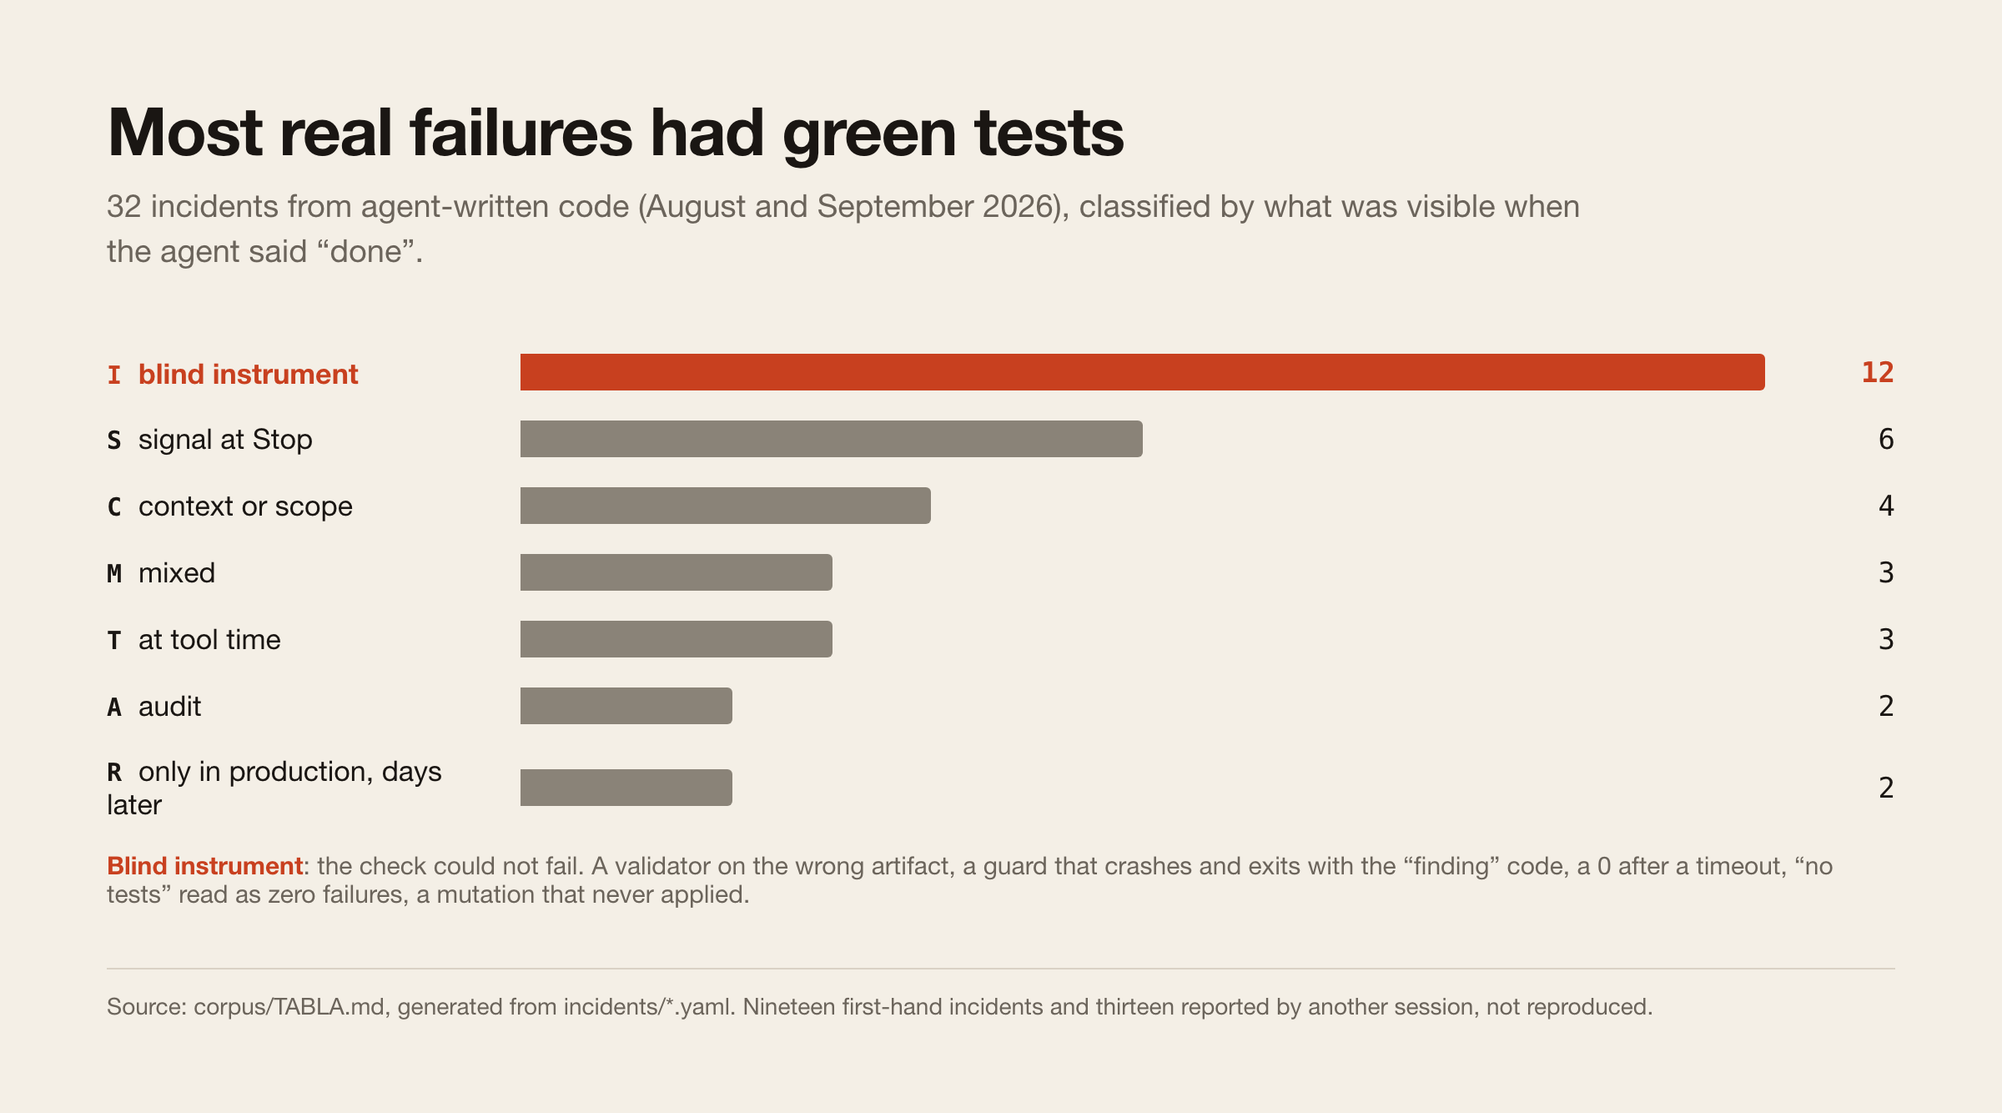
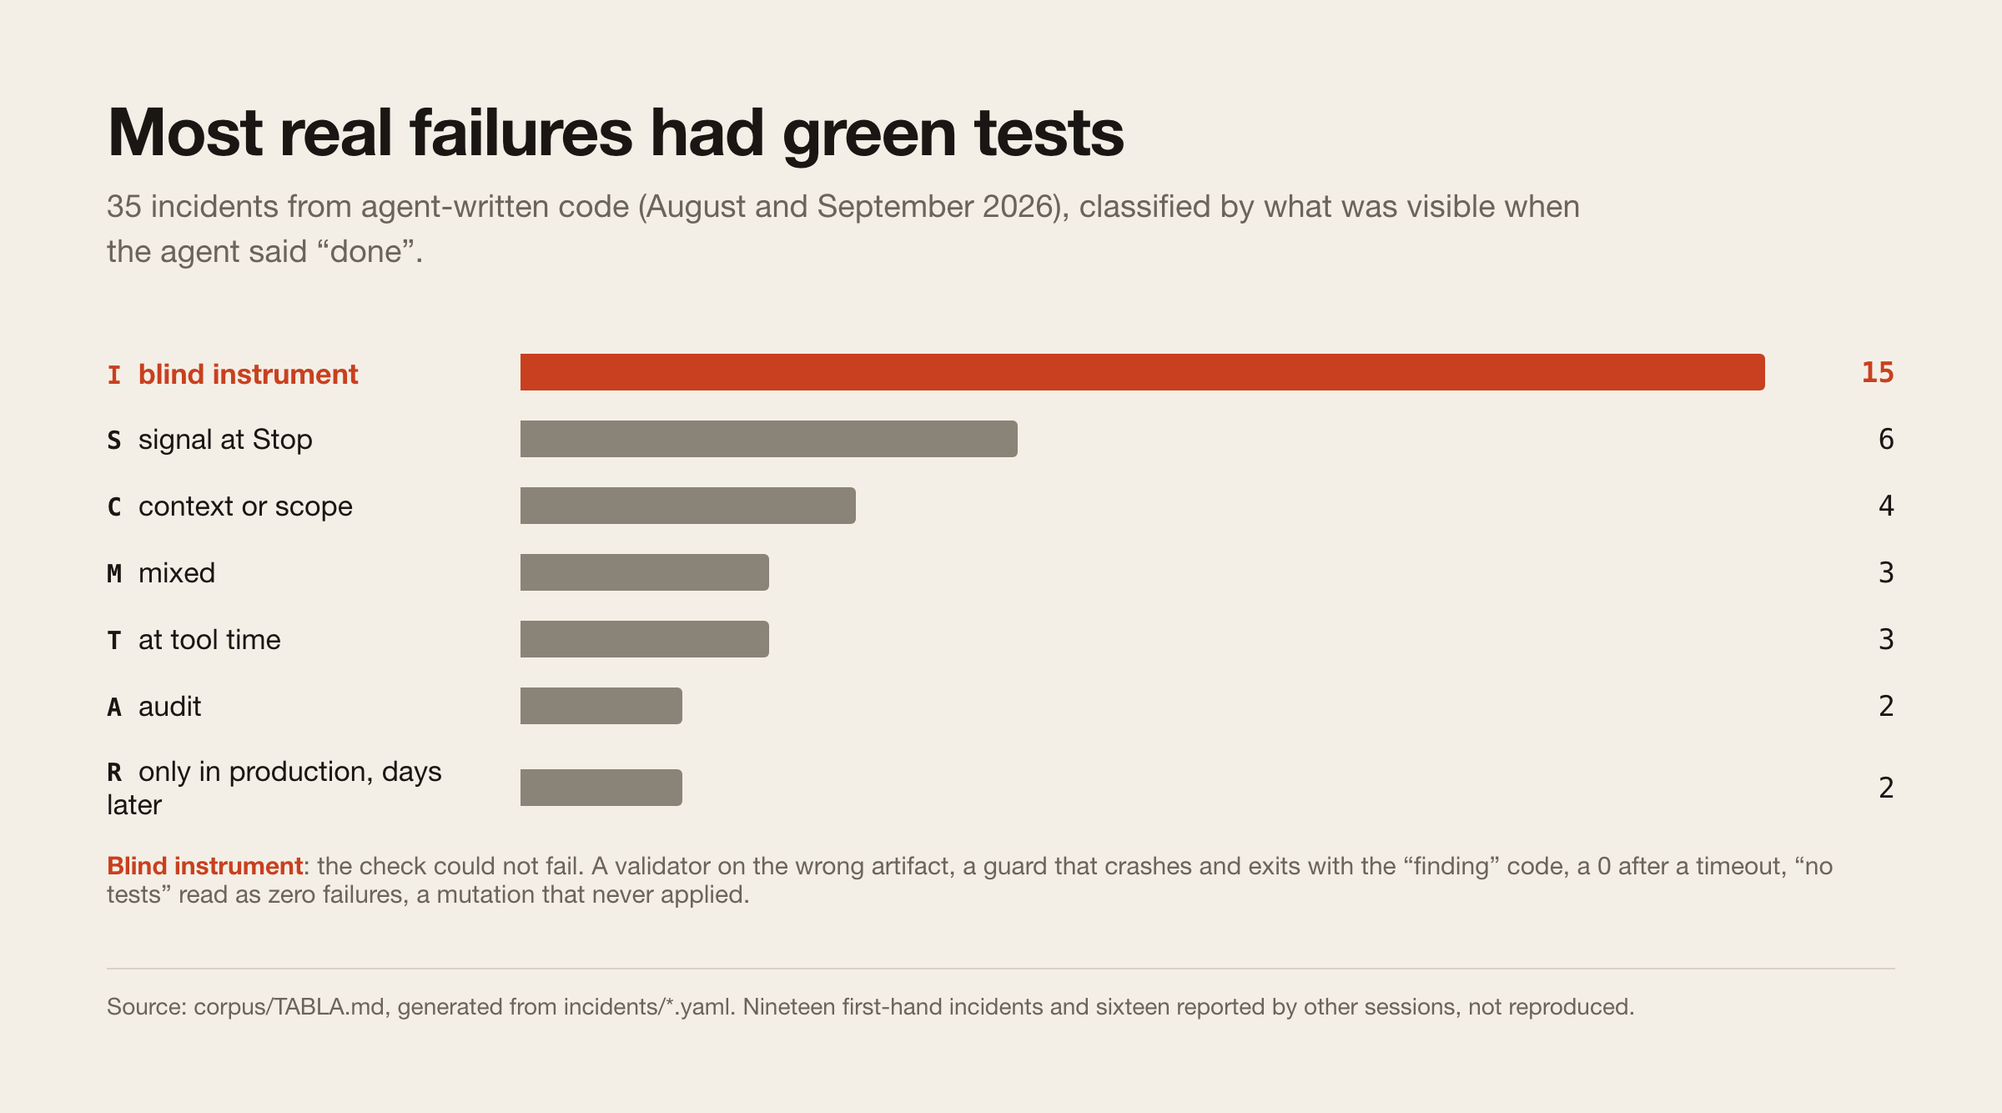
corpus: tres incidentes del patrón «presencia no es forma» (INC-0033 a 0035)
Relatados por la sesión del rediseño de ClaveON el 05-09 y vistos en rojo por ella:
un guardián legal que contaba rejillas con una cadena literal y perdió una sección
al añadirse una clase delante (verde con una «Anzeige» de menos); once pruebas de
contenido en verde sobre un correo ilegible (los helpers escapaban el HTML); y el
prefijo de especificidad CSS quitado sin que ningún test se pusiera rojo.

Los tres son clase I. La presencia se comprueba leyendo; la forma solo renderizando
o contando por estructura, y un guardián de subcadena da el mismo verde en los dos
casos. Los cubre el control positivo por check (Parte 2 del prompt de Codex).
Corpus 32 → 35 (I=15); gráfico y README regenerados.

diff --git a/docs/img/src/corpus.html b/docs/img/src/corpus.html
@@ -14,16 +14,16 @@ h1{font-size:40px;line-height:1.1;letter-spacing:-.02em;margin:0 0 10px;font-wei
 .note{font-size:15px;color:var(--muted);margin-top:8px}
 </style></head><body><div class="wrap">
 <h1>La mayoría de los fallos reales tenían las pruebas en verde</h1>
-<p class="sub">32 incidentes de código escrito por agentes (agosto y septiembre de 2026), clasificados por lo que era visible cuando el agente dijo «hecho».</p>
+<p class="sub">35 incidentes de código escrito por agentes (agosto y septiembre de 2026), clasificados por lo que era visible cuando el agente dijo «hecho».</p>
 <div class="rows">
- <div class="row hi"><div class="lab"><b>I</b>instrumento ciego</div><div><div class="bar" style="width:100%"></div></div><div class="val">12</div></div>
- <div class="row"><div class="lab"><b>S</b>señal al parar</div><div><div class="bar" style="width:50%"></div></div><div class="val">6</div></div>
- <div class="row"><div class="lab"><b>C</b>contexto o ámbito</div><div><div class="bar" style="width:33%"></div></div><div class="val">4</div></div>
- <div class="row"><div class="lab"><b>M</b>mixto</div><div><div class="bar" style="width:25%"></div></div><div class="val">3</div></div>
- <div class="row"><div class="lab"><b>T</b>al ejecutar la herramienta</div><div><div class="bar" style="width:25%"></div></div><div class="val">3</div></div>
- <div class="row"><div class="lab"><b>A</b>auditoría</div><div><div class="bar" style="width:17%"></div></div><div class="val">2</div></div>
- <div class="row"><div class="lab"><b>R</b>solo en producción, días después</div><div><div class="bar" style="width:17%"></div></div><div class="val">2</div></div>
+ <div class="row hi"><div class="lab"><b>I</b>instrumento ciego</div><div><div class="bar" style="width:100%"></div></div><div class="val">15</div></div>
+ <div class="row"><div class="lab"><b>S</b>señal al parar</div><div><div class="bar" style="width:40%"></div></div><div class="val">6</div></div>
+ <div class="row"><div class="lab"><b>C</b>contexto o ámbito</div><div><div class="bar" style="width:27%"></div></div><div class="val">4</div></div>
+ <div class="row"><div class="lab"><b>M</b>mixto</div><div><div class="bar" style="width:20%"></div></div><div class="val">3</div></div>
+ <div class="row"><div class="lab"><b>T</b>al ejecutar la herramienta</div><div><div class="bar" style="width:20%"></div></div><div class="val">3</div></div>
+ <div class="row"><div class="lab"><b>A</b>auditoría</div><div><div class="bar" style="width:13%"></div></div><div class="val">2</div></div>
+ <div class="row"><div class="lab"><b>R</b>solo en producción, días después</div><div><div class="bar" style="width:13%"></div></div><div class="val">2</div></div>
 </div>
 <p class="note"><span style="color:var(--red);font-weight:700">Instrumento ciego</span>: la comprobación no podía fallar. Un validador sobre el artefacto equivocado, un guardián que muere y sale con el código de «hallazgo», un 0 después de un timeout, «no tests» leído como cero fallos, una mutación que nunca se aplicó.</p>
-<div class="foot">Fuente: corpus/TABLA.md, generado desde incidents/*.yaml. Diecinueve incidentes propios y trece relatados por otra sesión, no reproducidos.</div>
+<div class="foot">Fuente: corpus/TABLA.md, generado desde incidents/*.yaml. Diecinueve incidentes propios y dieciséis relatados por otras sesiones, no reproducidos.</div>
 </div></body></html>

diff --git a/docs/img/src/en-corpus.html b/docs/img/src/en-corpus.html
@@ -14,16 +14,16 @@ h1{font-size:40px;line-height:1.1;letter-spacing:-.02em;margin:0 0 10px;font-wei
 .note{font-size:15px;color:var(--muted);margin-top:8px}
 </style></head><body><div class="wrap">
 <h1>Most real failures had green tests</h1>
-<p class="sub">32 incidents from agent-written code (August and September 2026), classified by what was visible when the agent said “done”.</p>
+<p class="sub">35 incidents from agent-written code (August and September 2026), classified by what was visible when the agent said “done”.</p>
 <div class="rows">
- <div class="row hi"><div class="lab"><b>I</b>blind instrument</div><div><div class="bar" style="width:100%"></div></div><div class="val">12</div></div>
- <div class="row"><div class="lab"><b>S</b>signal at Stop</div><div><div class="bar" style="width:50%"></div></div><div class="val">6</div></div>
- <div class="row"><div class="lab"><b>C</b>context or scope</div><div><div class="bar" style="width:33%"></div></div><div class="val">4</div></div>
- <div class="row"><div class="lab"><b>M</b>mixed</div><div><div class="bar" style="width:25%"></div></div><div class="val">3</div></div>
- <div class="row"><div class="lab"><b>T</b>at tool time</div><div><div class="bar" style="width:25%"></div></div><div class="val">3</div></div>
- <div class="row"><div class="lab"><b>A</b>audit</div><div><div class="bar" style="width:17%"></div></div><div class="val">2</div></div>
- <div class="row"><div class="lab"><b>R</b>only in production, days later</div><div><div class="bar" style="width:17%"></div></div><div class="val">2</div></div>
+ <div class="row hi"><div class="lab"><b>I</b>blind instrument</div><div><div class="bar" style="width:100%"></div></div><div class="val">15</div></div>
+ <div class="row"><div class="lab"><b>S</b>signal at Stop</div><div><div class="bar" style="width:40%"></div></div><div class="val">6</div></div>
+ <div class="row"><div class="lab"><b>C</b>context or scope</div><div><div class="bar" style="width:27%"></div></div><div class="val">4</div></div>
+ <div class="row"><div class="lab"><b>M</b>mixed</div><div><div class="bar" style="width:20%"></div></div><div class="val">3</div></div>
+ <div class="row"><div class="lab"><b>T</b>at tool time</div><div><div class="bar" style="width:20%"></div></div><div class="val">3</div></div>
+ <div class="row"><div class="lab"><b>A</b>audit</div><div><div class="bar" style="width:13%"></div></div><div class="val">2</div></div>
+ <div class="row"><div class="lab"><b>R</b>only in production, days later</div><div><div class="bar" style="width:13%"></div></div><div class="val">2</div></div>
 </div>
 <p class="note"><span style="color:var(--red);font-weight:700">Blind instrument</span>: the check could not fail. A validator on the wrong artifact, a guard that crashes and exits with the “finding” code, a 0 after a timeout, “no tests” read as zero failures, a mutation that never applied.</p>
-<div class="foot">Source: corpus/TABLA.md, generated from incidents/*.yaml. Nineteen first-hand incidents and thirteen reported by another session, not reproduced.</div>
+<div class="foot">Source: corpus/TABLA.md, generated from incidents/*.yaml. Nineteen first-hand incidents and sixteen reported by other sessions, not reproduced.</div>
 </div></body></html>

diff --git a/corpus/TABLA.md b/corpus/TABLA.md
@@ -1,6 +1,6 @@
 # Corpus de fallos reales · tabla generada
 
-Generado desde `incidents/` (32 incidentes). No editar a mano: `python3 bin/rompelo-corpus.py`.
+Generado desde `incidents/` (35 incidentes). No editar a mano: `python3 bin/rompelo-corpus.py`.
 
 ## Lo que decide
 
@@ -8,16 +8,16 @@ Clases: **S** señal disponible al Stop · **T** en el momento de la herramienta
 
 | Pregunta | Recuento |
 |---|---|
-| Reparto por clase | **A**: 2 · **C**: 4 · **I**: 12 · **M**: 3 · **R**: 2 · **S**: 6 · **T**: 3 (de 32) |
+| Reparto por clase | **A**: 2 · **C**: 4 · **I**: 15 · **M**: 3 · **R**: 2 · **S**: 6 · **T**: 3 (de 35) |
 | recall del Stop gate sobre la clase S | **5 de 6** |
-| Cobertura del Stop gate sobre TODOS (no es la métrica, se deja por honestidad) | sí: 8 · parcial: 5 · no: 19 |
-| ¿Cuántos tienen ya un control hoy? | sí: 13 · parcial: 7 · **no: 12** |
+| Cobertura del Stop gate sobre TODOS (no es la métrica, se deja por honestidad) | sí: 8 · parcial: 6 · no: 21 |
+| ¿Cuántos tienen ya un control hoy? | sí: 13 · parcial: 8 · **no: 14** |
 
 ## Por tipo de gate que lo habría cazado
 
 | Gate | Incidentes | Existe hoy |
 |---|---|---|
-| `instrumento-control-positivo` | 14 (0006, 0013, 0016, 0017, 0018, 0019, 0020, 0022, 0023, 0025, 0029, 0030, 0031, 0032) | no, parcial, sí |
+| `instrumento-control-positivo` | 16 (0006, 0013, 0016, 0017, 0018, 0019, 0020, 0022, 0023, 0025, 0029, 0030, 0031, 0032, 0033, 0035) | no, parcial, sí |
 | `deriva-generada` | 4 (0002, 0003, 0012, 0026) | parcial, sí |
 | `pretooluse-destructivo` | 3 (0001, 0007, 0008) | no, sí |
 | `stop-junta` | 3 (0004, 0014, 0027) | no, parcial |
@@ -26,10 +26,11 @@ Clases: **S** señal disponible al Stop · **T** en el momento de la herramienta
 | `stop-hallazgos` | 1 (0009) | no |
 | `alerta-operacional` | 1 (0010) | sí |
 | `ledger-auditoria` | 1 (0015) | no |
+| `stop-check-registrado` | 1 (0034) | parcial |
 
 ## Qué lo habría visto (observación + gate)
 
-Anotado en cada incidente (`disparador`, docs/observacion.md §9.3). Sin disparador ni gate: **6 de 32** (0006, 0007, 0009, 0010, 0015, 0026): clases R, T y A, que viven fuera del cierre de una tarea.
+Anotado en cada incidente (`disparador`, docs/observacion.md §9.3). Sin disparador ni gate: **6 de 35** (0006, 0007, 0009, 0010, 0015, 0026): clases R, T y A, que viven fuera del cierre de una tarea.
 
 | Id | Clase | Disparador |
 |---|---|---|
@@ -65,6 +66,9 @@ Anotado en cada incidente (`disparador`, docs/observacion.md §9.3). Sin dispara
 | 0030 | I | batería en rojo primero (hash del contrato en el cierre) |
 | 0031 | I | cruce en vivo del observador (un ls fallido sin línea en el libro) |
 | 0032 | I | control negativo con sesiones reales (libro con códigos imposibles) |
+| 0033 | I | control positivo contando lo que el guardián VIO (7 secciones), visto en rojo con una etiqueta quitada |
+| 0034 | I | gate con check registrado que mira lo que sale (render), no la presencia; el observador no lo ve |
+| 0035 | I | control positivo por mutación (quitar el prefijo CSS) visto en rojo; sin él, la cobertura del requisito es cero y nadie lo sabe |
 
 ## Los incidentes
 
@@ -102,6 +106,9 @@ Anotado en cada incidente (`disparador`, docs/observacion.md §9.3). Sin dispara
 | 0030 | 2026-09-05 | I | sí: el contrato y la evidencia de cierre no coincidían y nadie lo comparaba | `instrumento-control-positivo` | sí | no |
 | 0031 | 2026-09-05 | I | no: el libro se llenaba de líneas con código 0 y nada parecía incoherente | `instrumento-control-positivo` | sí | no |
 | 0032 | 2026-09-05 | I | sí: la firma repetida sobre comandos con código 0 era contradictoria, pero nadie comparaba firma con código | `instrumento-control-positivo` | sí | no |
+| 0033 | 2026-09-05 | I | no: el guardián pasaba y nada parecía incoherente; solo se vio mutando (quitar una etiqueta) y viendo que seguía verde | `instrumento-control-positivo` | no | no |
+| 0034 | 2026-09-05 | I | no: las pruebas eran del tipo equivocado para el fallo que perseguían | `stop-check-registrado` | parcial | parcial |
+| 0035 | 2026-09-05 | I | no | `instrumento-control-positivo` | no | no |
 
 ## Títulos
 
@@ -137,3 +144,6 @@ Anotado en cada incidente (`disparador`, docs/observacion.md §9.3). Sin dispara
 - **0030** · Una tarea cerrada aceptaba un check obligatorio nuevo sin ejecutarlo: el contrato no formaba parte de la huella de cierre (`hallazgo de Codex al revisar rompelo (bin/rompelo:217), reproducido aquí con un caso en la batería`)
 - **0031** · El observador nunca veía un comando fallar en Claude Code: PostToolUse solo se dispara tras éxito y el fallo va por PostToolUseFailure (`cruce en vivo en la sesión 538801e8 (un `ls` a una ruta inexistente no dejó línea en el libro) + doc oficial code.claude.com/docs/en/hooks.md: «PostToolUse hooks fire after a tool has already executed successfully» y «For Bash and PowerShell, a command that ran and exited produces a first line Exit code N» (PostToolUseFailure)`)
 - **0032** · Códigos de salida inventados desde el texto: «exit code: 200» en un stdout y «Exit code 1» dentro de un documento se leían como códigos, y el aviso «Shell cwd was reset» del harness se firmaba como error (`libro real de la sesión 7ae11a81 (código 200 en un comando que salió bien) y de la sesión 538801e8 (códigos 2 y 1 al leer documentación con sed; la misma firma de error en tres comandos correctos seguidos); transcript 7ae11a81: los 35 resultados correctos con stderr eran solo el aviso de cwd`)
+- **0033** · El guardián legal de la «Anzeige» contaba rejillas con una cadena literal; una clase añadida delante le quitó una sección y habría dado verde con una etiqueta de menos (§ 5a Abs. 4 UWG) (`relato de la sesión redesign-status-compact (ClaveON_B2C-rediseno), mensaje entre sesiones del 05-09-2026 enviado por José; visto en rojo a propósito por esa sesión partiendo de verde; no reproducido aquí`)
+- **0034** · Once pruebas de contenido en verde sobre un correo ilegible: los helpers escapaban el HTML que recibían y treinta líneas de <div style=…> salían como texto visible (`relato de la sesión redesign-status-compact (ClaveON_B2C-rediseno), mensaje entre sesiones del 05-09-2026 enviado por José; visto en rojo a propósito por esa sesión partiendo de verde; no reproducido aquí`)
+- **0035** · Quitado el prefijo de especificidad de .rga-article .hw-ad-label y la suite siguió verde: la palabra «Anzeige» seguía en la página pero con tinta y márgenes de párrafo, cumplida en presencia e incumplida en forma (`relato de la sesión redesign-status-compact (ClaveON_B2C-rediseno), mensaje entre sesiones del 05-09-2026 enviado por José; visto en rojo a propósito por esa sesión partiendo de verde; no reproducido aquí`)

diff --git a/docs/RELEVO-2026-09-05.md b/docs/RELEVO-2026-09-05.md
@@ -30,7 +30,8 @@ que no, lleva NO VERIFICADO.
 | `verify --ci` (juez independiente), `solo_local`, registro de respaldo en el repo | hecho | 6 casos + CI del propio repo |
 | `init` con detección de checks, `close` con informe en llano | hecho | 4 casos, vistos en rojo por mutación |
 | Capa de observación: libro, firma, perfiles D1, patrones D2, niveles, aviso, permiso | hecho, cruzado en vivo dos veces (§12 y §12.1 del diseño) | `tests/rompelo-observe-test.sh` 64/64 |
-| Corpus de 32 incidentes clasificados (I=12, S=6, C=4, M=3, T=3, A=2, R=2), cada uno con `disparador` | hecho | `python3 bin/rompelo-corpus.py` |
+| Corpus de 35 incidentes clasificados (I=15, S=6, C=4, M=3, T=3, A=2, R=2), cada uno con `disparador` | hecho | `python3 bin/rompelo-corpus.py` |
+| INC-0033 a 0035: «presencia no es forma» (guardián por cadena literal, correo ilegible con 11 pruebas verdes, prefijo CSS quitado sin rojo), relatados por la sesión del rediseño el 05-09 | en el corpus; los cubre el control positivo por check (Parte 2 de Codex) | `corpus/TABLA.md` |
 | Observador con `PostToolUseFailure` (Claude Code no manda los fallos por `PostToolUse`), códigos solo de la primera línea, ruido del harness fuera | hecho, cruzado en vivo (un `ls` fallido quedó en el libro con código 1) | `tests/rompelo-observe-test.sh` 64/64; INC-0031 e INC-0032 |
 | Control negativo con 5 sesiones reales (`tests/control-negativo-sesiones.py`): 7 alarmas → 2 verdaderas | hecho, check `rompelo.control-negativo-sesiones` (solo local) con control positivo | `docs/observacion.md` §12.1 |
 | Informe con lo observado, `checks_nivel3` con permiso, mensajes en inglés (`ROMPELO_LANG=en`), `disparador` por incidente, `v0.1.0` con CHANGELOG y CONTRIBUTING | hecho | `docs/observacion.md` §12.2; 64 casos |

diff --git a/adapters/codex/PROMPT-CODEX.md b/adapters/codex/PROMPT-CODEX.md
@@ -14,7 +14,7 @@ Reglas que no se negocian:
   ROJO con un caso que la incumple y luego en VERDE con uno bueno, y las dos cosas quedan en
   `~/rompelo/tests/rompelo-stop-test.sh`. Antes de tocar nada, las dos baterías tienen que estar en
   verde: `bash ~/rompelo/tests/rompelo-stop-test.sh` (hoy: PASS=77 FAIL=0) y
-  `bash ~/rompelo/tests/rompelo-observe-test.sh` (hoy: PASS=51 FAIL=0).
+  `bash ~/rompelo/tests/rompelo-observe-test.sh` (hoy: PASS=64 FAIL=0).
 - Cuando mutes un fichero para ver rojo, comprueba que la mutación ocurrió (grep del cambio) y
   que crea el fallo que buscas. Una mutación que no casa no prueba nada.
 - Commits en `~/rompelo` con mensajes en español y sin ninguna atribución a IA
@@ -60,7 +60,7 @@ Reglas que no se negocian:
 
 ## Parte 2 · Módulo «control positivo»: que un check no pueda dar verde sin haber mirado
 
-Motivo, medido en `~/rompelo/corpus/TABLA.md`: de 32 incidentes reales, la clase mayor (12) es
+Motivo, medido en `~/rompelo/corpus/TABLA.md`: de 35 incidentes reales, la clase mayor (15) es
 «la comprobación no podía fallar»: validador sobre el artefacto equivocado, instrumento que
 muere y sale con el código de hallazgo, `pnpm audit` con 0 tras un timeout, «no tests» leído
 como 0 fallos, mutación que no casó, un observador que nunca recibía los fallos (INC-0031).

diff --git a/README.es.md b/README.es.md
@@ -16,9 +16,9 @@ English documentation: [README.md](README.md).
 
 ## El problema del que parte
 
-![Gráfico de barras de 32 incidentes reales por clase: instrumento ciego 12, señal al parar 6, contexto 4, mixto 3, al ejecutar la herramienta 3, auditoría 2, producción 2](docs/img/es/corpus.png)
+![Gráfico de barras de 35 incidentes reales por clase: instrumento ciego 15, señal al parar 6, contexto 4, mixto 3, al ejecutar la herramienta 3, auditoría 2, producción 2](docs/img/es/corpus.png)
 
-Treinta y dos incidentes reales de un mes de código escrito por agentes, cada uno anotado con lo
+Treinta y cinco incidentes reales de un mes de código escrito por agentes, cada uno anotado con lo
 que parecía verde cuando el agente dijo «hecho» ([corpus/TABLA.md](corpus/TABLA.md), generado
 desde [incidents/](incidents/)). La clase mayor no es «la prueba falló». Es «la comprobación no
 podía fallar»: un validador sobre el artefacto equivocado, un guardián que muere y sale con el

diff --git a/README.md b/README.md
@@ -19,9 +19,9 @@ Documentación en español: [README.es.md](README.es.md).
 
 ## The problem it is built around
 
-![Bar chart of 32 real incidents by class: blind instrument 12, signal at Stop 6, context 4, mixed 3, tool time 3, audit 2, runtime 2](docs/img/en/corpus.png)
+![Bar chart of 35 real incidents by class: blind instrument 15, signal at Stop 6, context 4, mixed 3, tool time 3, audit 2, runtime 2](docs/img/en/corpus.png)
 
-Thirty-two real incidents from one month of agent-written code, each written down with what
+Thirty-five real incidents from one month of agent-written code, each written down with what
 looked green at the moment the agent said "done" ([corpus/TABLA.md](corpus/TABLA.md), generated
 from [incidents/](incidents/)). The largest class is not "the test failed". It is "the check
 could not fail": a validator run on the wrong artifact, a guard that crashed and exited with

diff --git a/docs/observacion.md b/docs/observacion.md
@@ -265,7 +265,7 @@ de `bin/rompelo` que no lee códigos.
   batería comprueba que un bloqueo inglés no lleva restos en español y que sin la variable sigue
   en español.
 - §9.3: cada incidente lleva `disparador`; `corpus/TABLA.md` tiene la sección «Qué lo habría
-  visto». Seis de 32 no tienen disparador ni gate (clases R, T y A: viven fuera del cierre).
+  visto». Seis de 35 no tienen disparador ni gate (clases R, T y A: viven fuera del cierre).
 
 Pendiente de este diseño: §4 D3 más allá del perfil `exterior`; perfiles por repo si los dos
 toques siguen gritando. NO VERIFICADO: la forma de `tool_response` de Codex para un comando que
